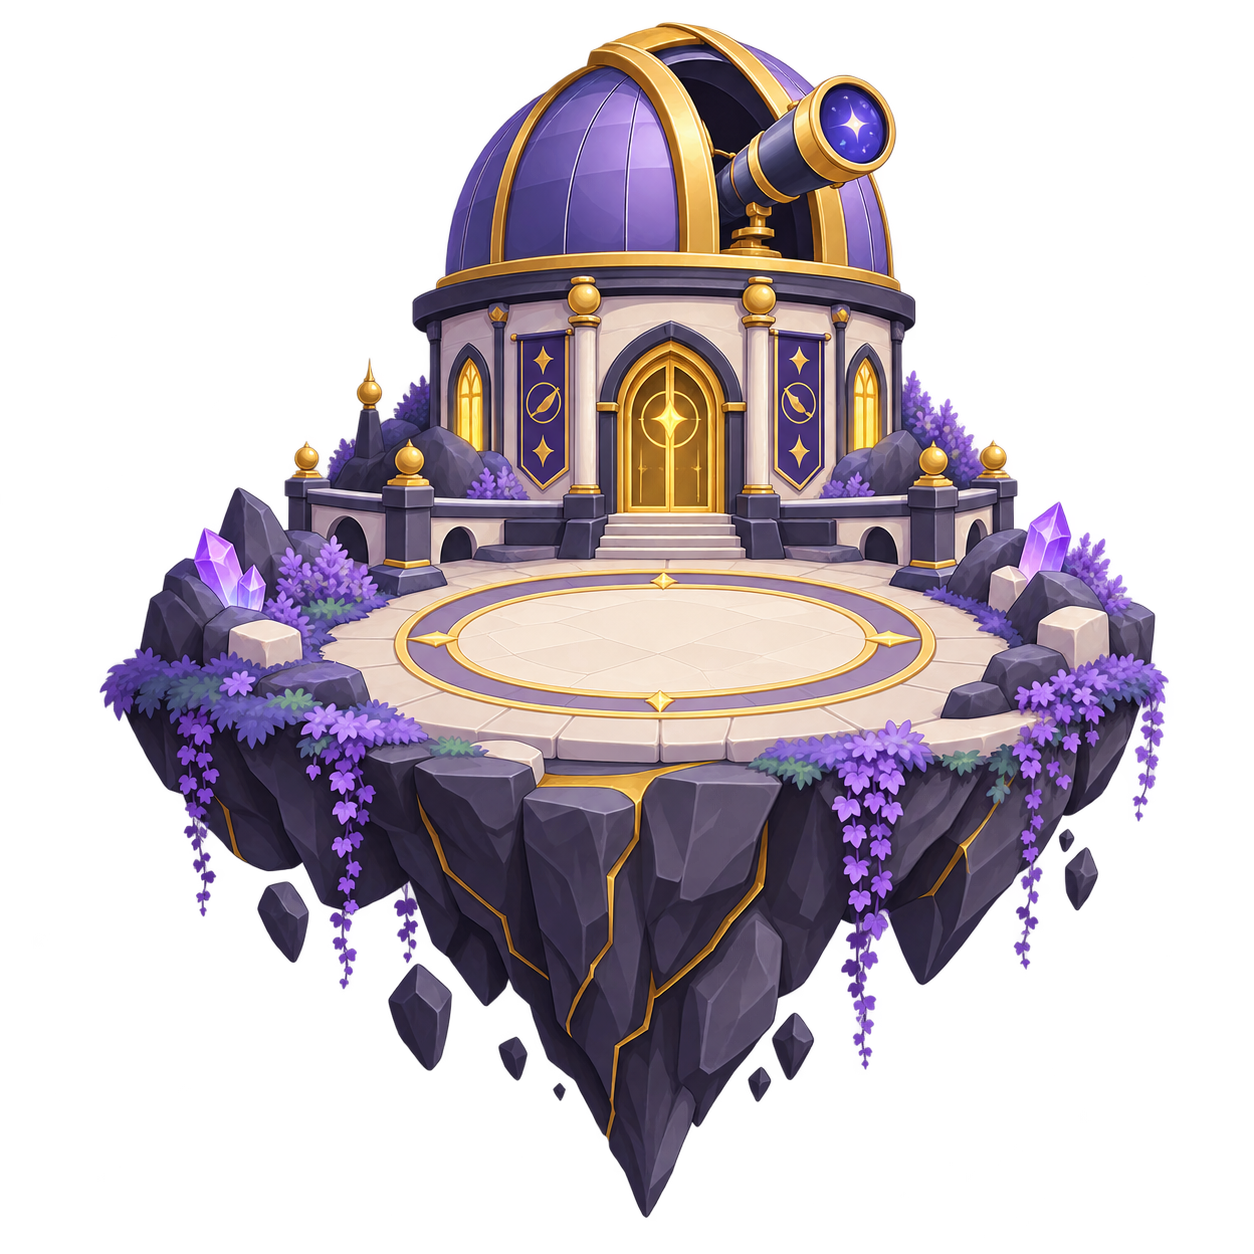
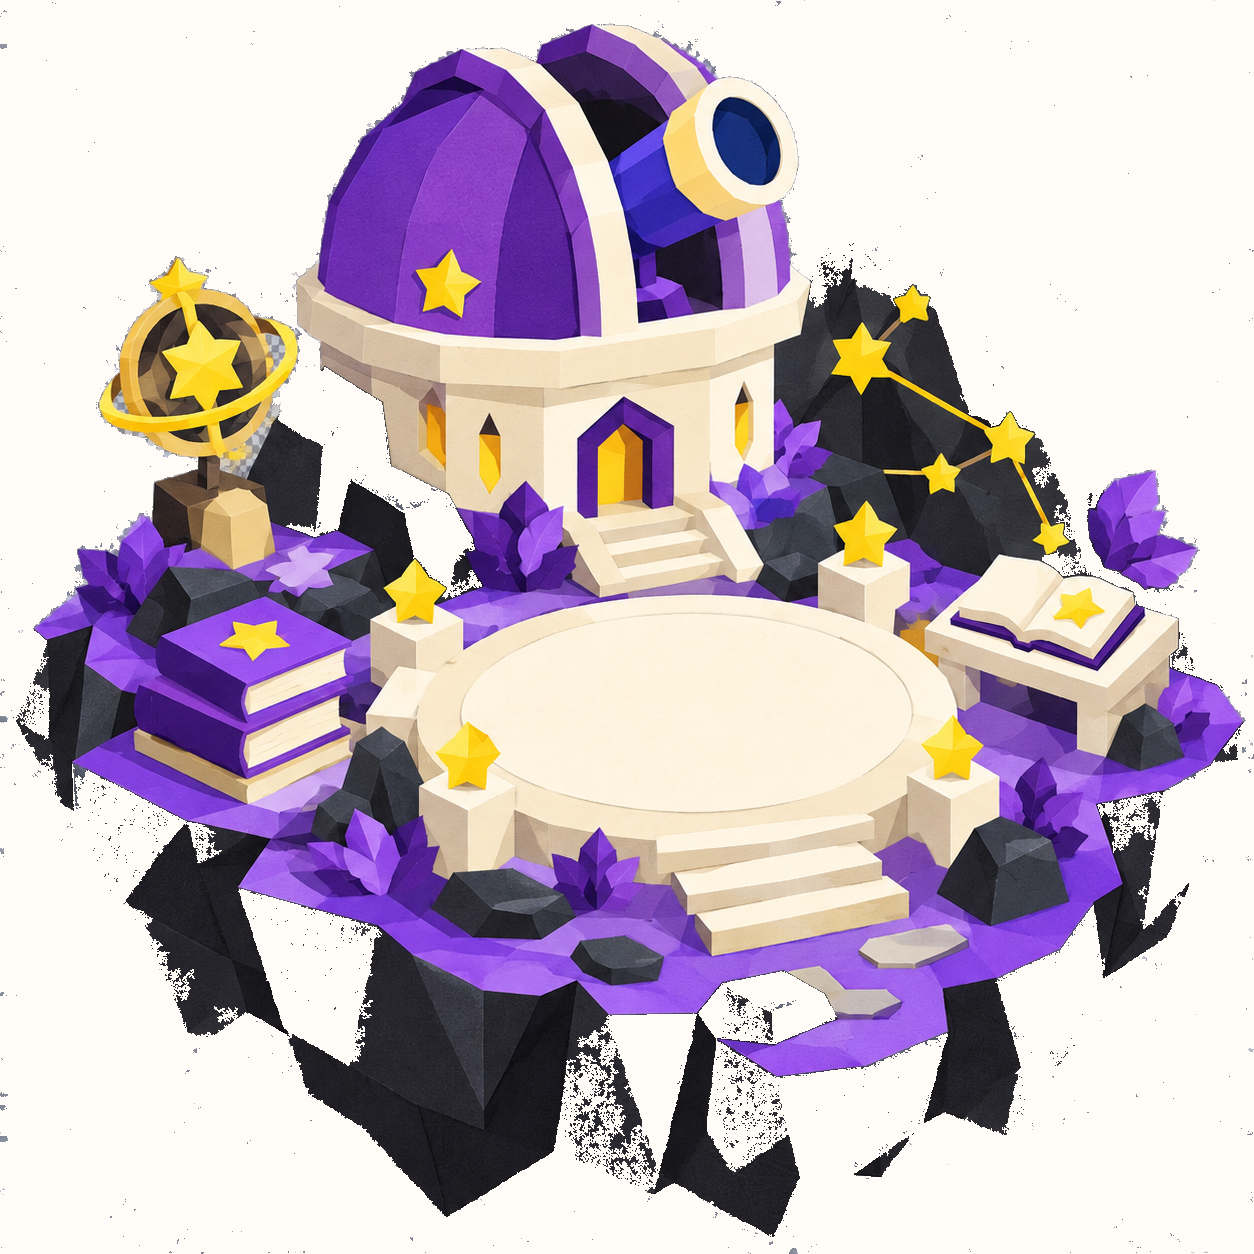
feat(practice): style Solo worlds as paper cutouts

diff --git a/docs/CURRENT_STATE_AUDIT.md b/docs/CURRENT_STATE_AUDIT.md
@@ -199,8 +199,8 @@ a 1 MB por item. A digitalização atual não executa OCR; reconhecimento de tex
 para uma mudança com modelo de ameaça e estratégia de processamento próprios.
 
 O módulo antes chamado Aprender agora aparece como **Praticar** no desktop e no celular. A entrada
-mostra um mundo por vez, com três PNGs transparentes sem personagens incorporados. As setas trocam
-as ilhas e Helena vira para a direção do salto. Na trilha sem moldura, a mascote fica sobre o nível
+mostra um mundo por vez, com três PNGs transparentes em estilo de papel recortado e sem personagens
+incorporados. As setas trocam as ilhas e Helena vira para a direção do salto. Na trilha sem moldura, a mascote fica sobre o nível
 liberado, acompanhando o progresso local. A entrada mantém a transição para a trilha.
 A trilha usa plataformas numeradas em um caminho sinuoso, respeitando movimento reduzido.
 A entrada

diff --git a/docs/SECOND_BRAIN.md b/docs/SECOND_BRAIN.md
@@ -95,7 +95,7 @@ flowchart LR
   STUDY --> LIB[Biblioteca e flashcards]
   STUDY --> PRACTICE[Praticar]
   PRACTICE --> WORLDS[Mundos Solo com níveis progressivos]
-  WORLDS --> MOTION[Um mundo por vez e Helena sobre o nível atual]
+  WORLDS --> MOTION[Um mundo por vez, arte de papel recortado e Helena sobre o nível atual]
   PRACTICE --> LISTEN[Escuta com Cloudflare Workers AI e fallback do dispositivo]
   LISTEN --> CUSTOM[Lista personalizada com validação por linha]
   LISTEN --> FEEDBACK[Feedback individual antes da próxima pergunta]
